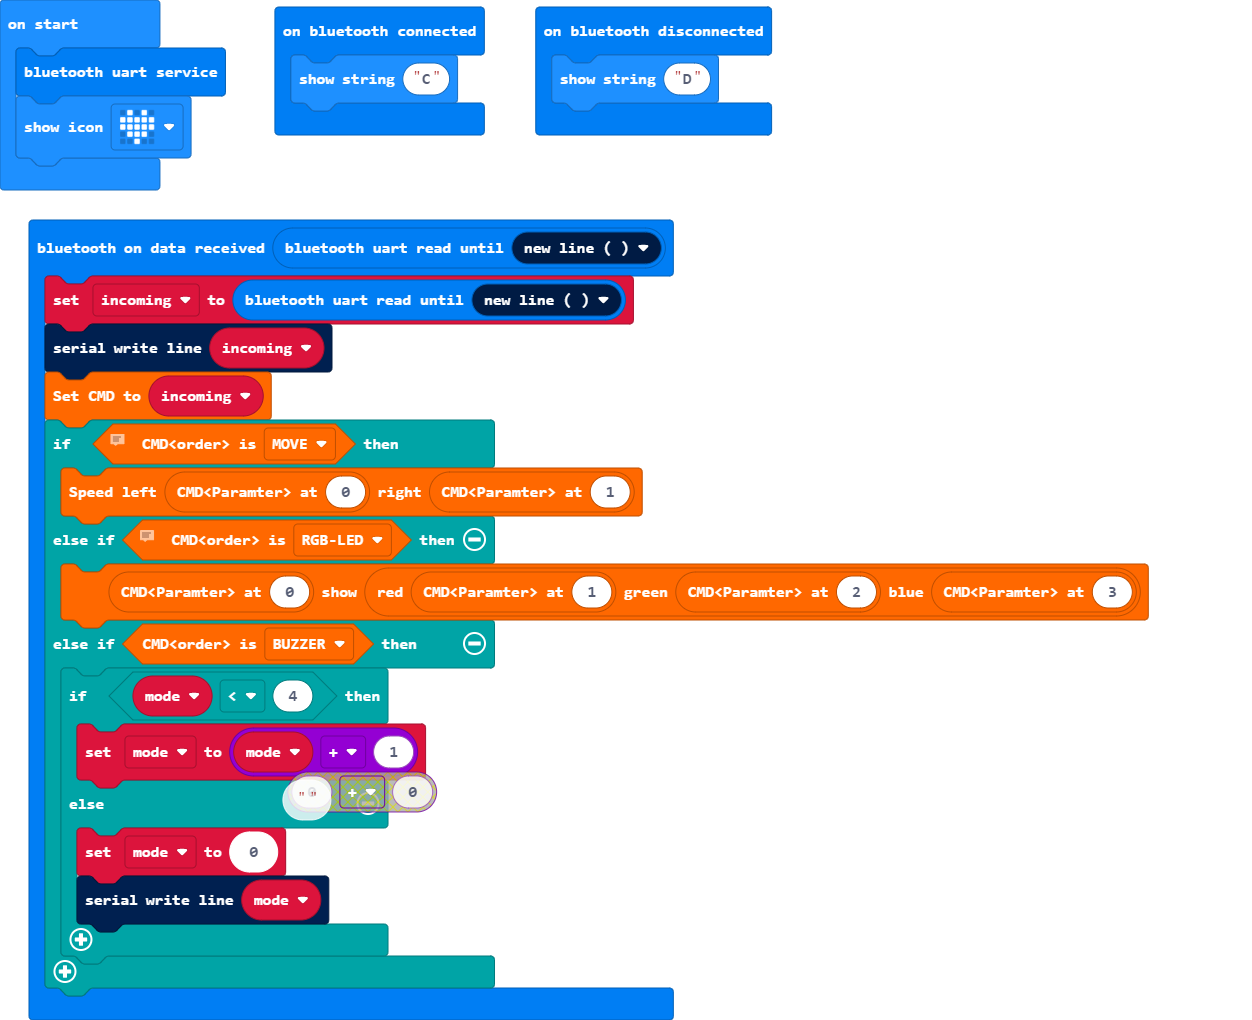
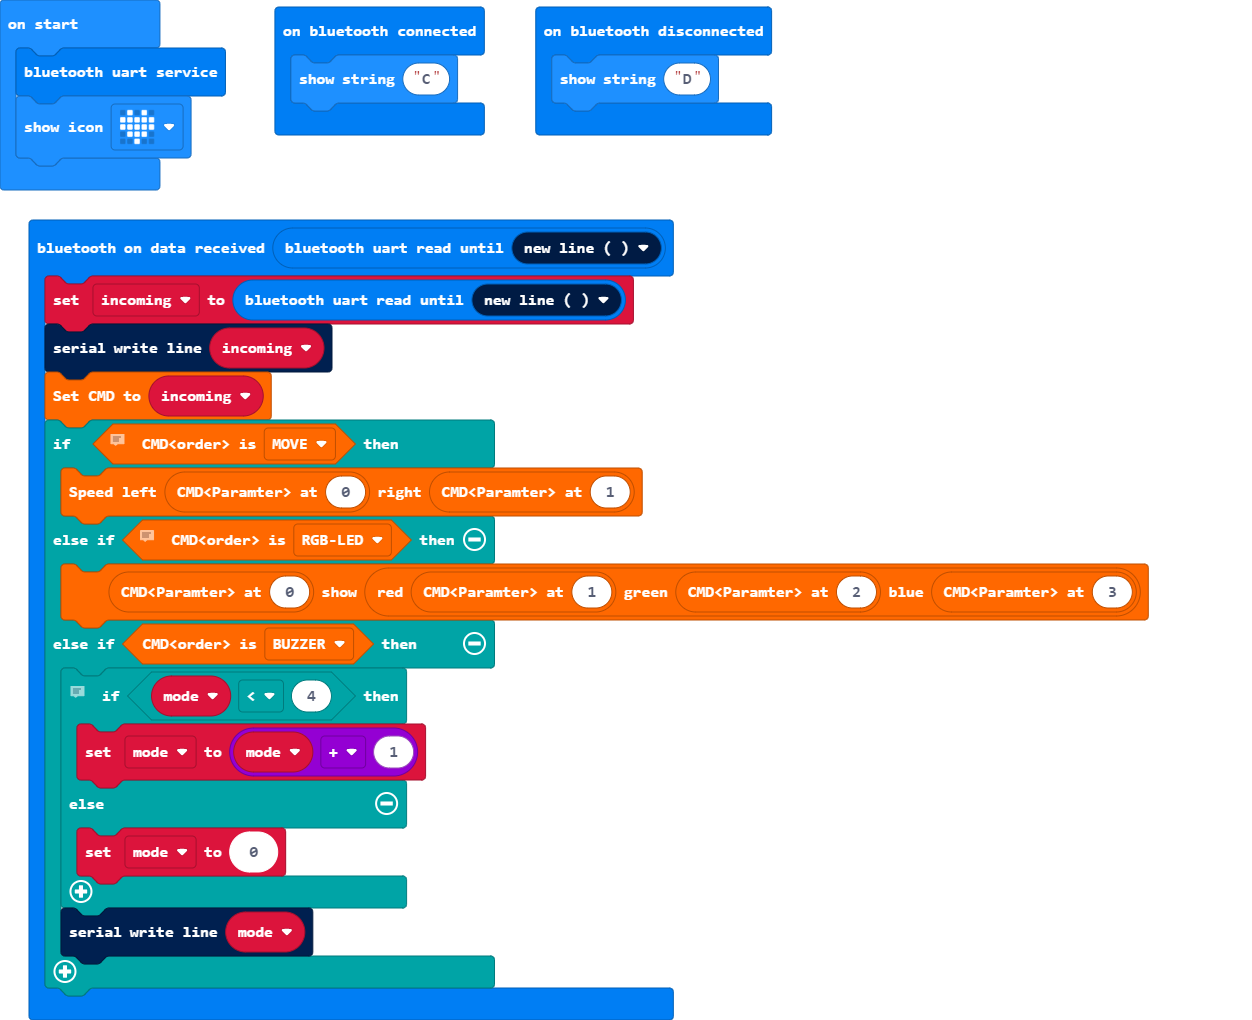
Updated Comments for Mode

Changed region(s): [[0.0312, 0.851, 0.3427, 0.9422], [0.0623, 0.6382, 0.3427, 0.7294], [0.2181, 0.7598, 0.3738, 0.8206]]

diff --git a/main.ts b/main.ts
@@ -9,12 +9,13 @@ bluetooth.onUartDataReceived(bluetooth.uartReadUntil(serial.delimiters(Delimiter
     } else if (Rover.checkOrder(Orders.ORDER_RGB)) {
         Rover.setRGBLED(Rover.getParameter(0), Rover.rgb(Rover.getParameter(1), Rover.getParameter(2), Rover.getParameter(3)))
     } else if (Rover.checkOrder(Orders.BUZZER)) {
+        // We are using this variable to create a robot mode (standby, tele, auto)
         if (mode < 4) {
             mode = mode + 1
         } else {
             mode = 0
-            serial.writeLine("" + (mode))
         }
+        serial.writeLine("" + (mode))
     }
 })
 bluetooth.onBluetoothConnected(function () {
